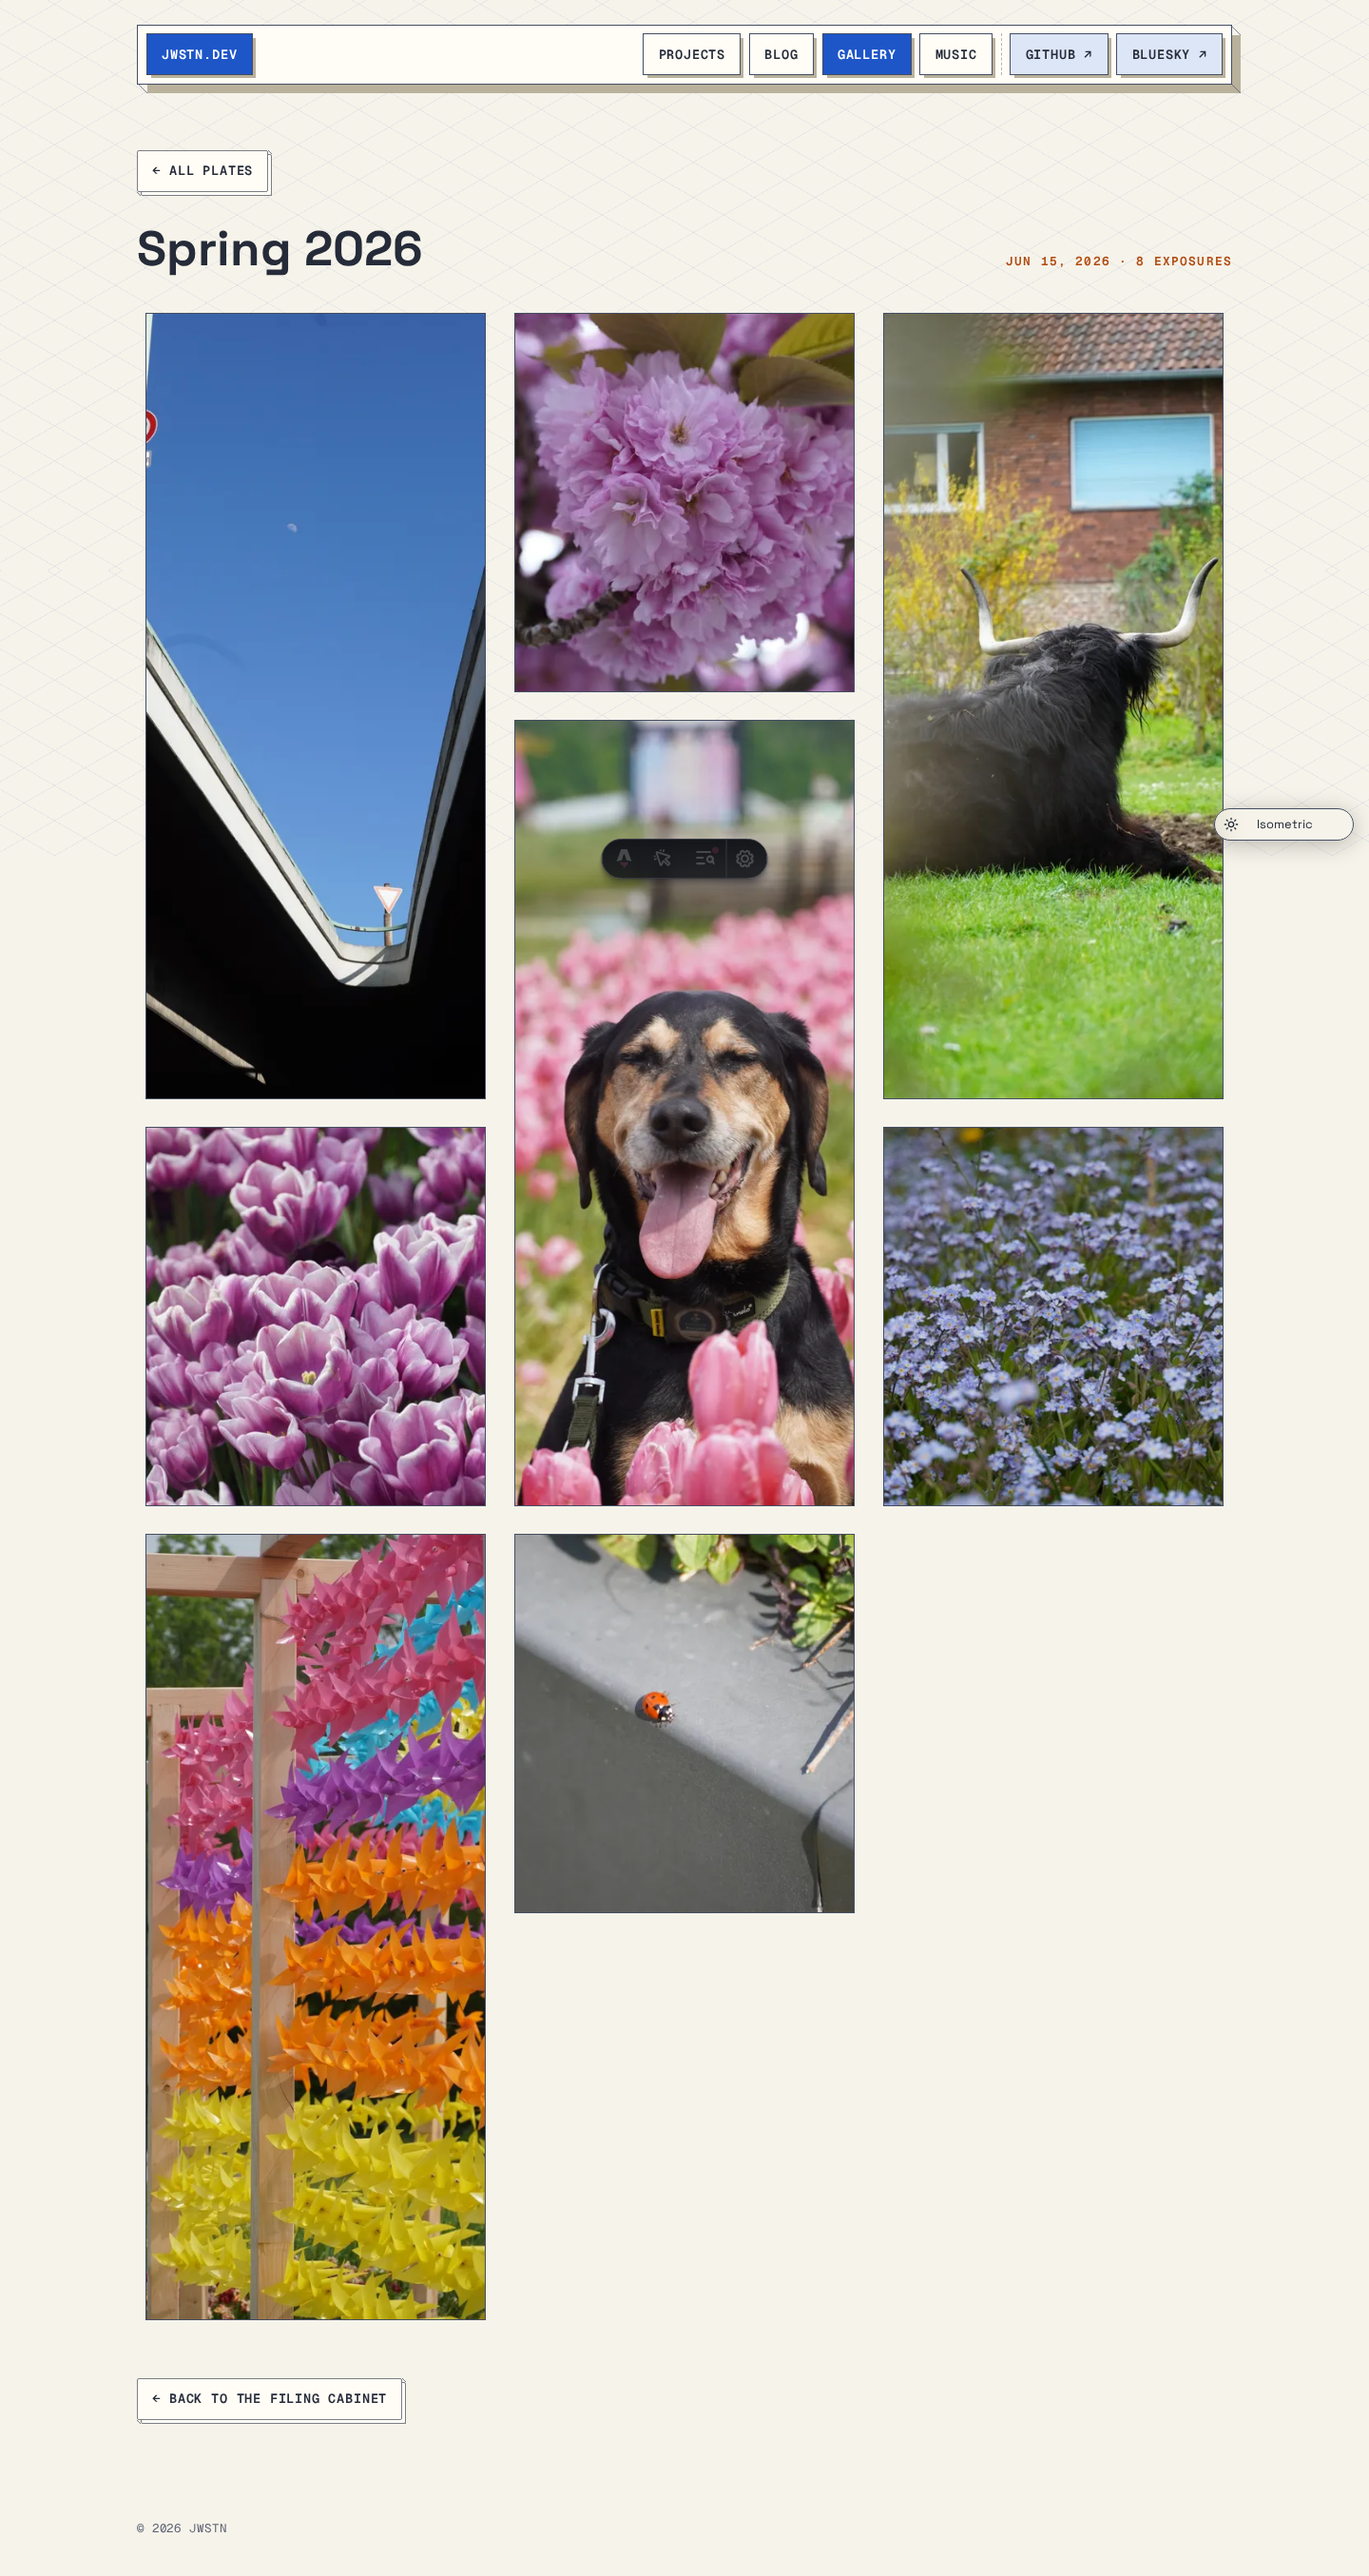
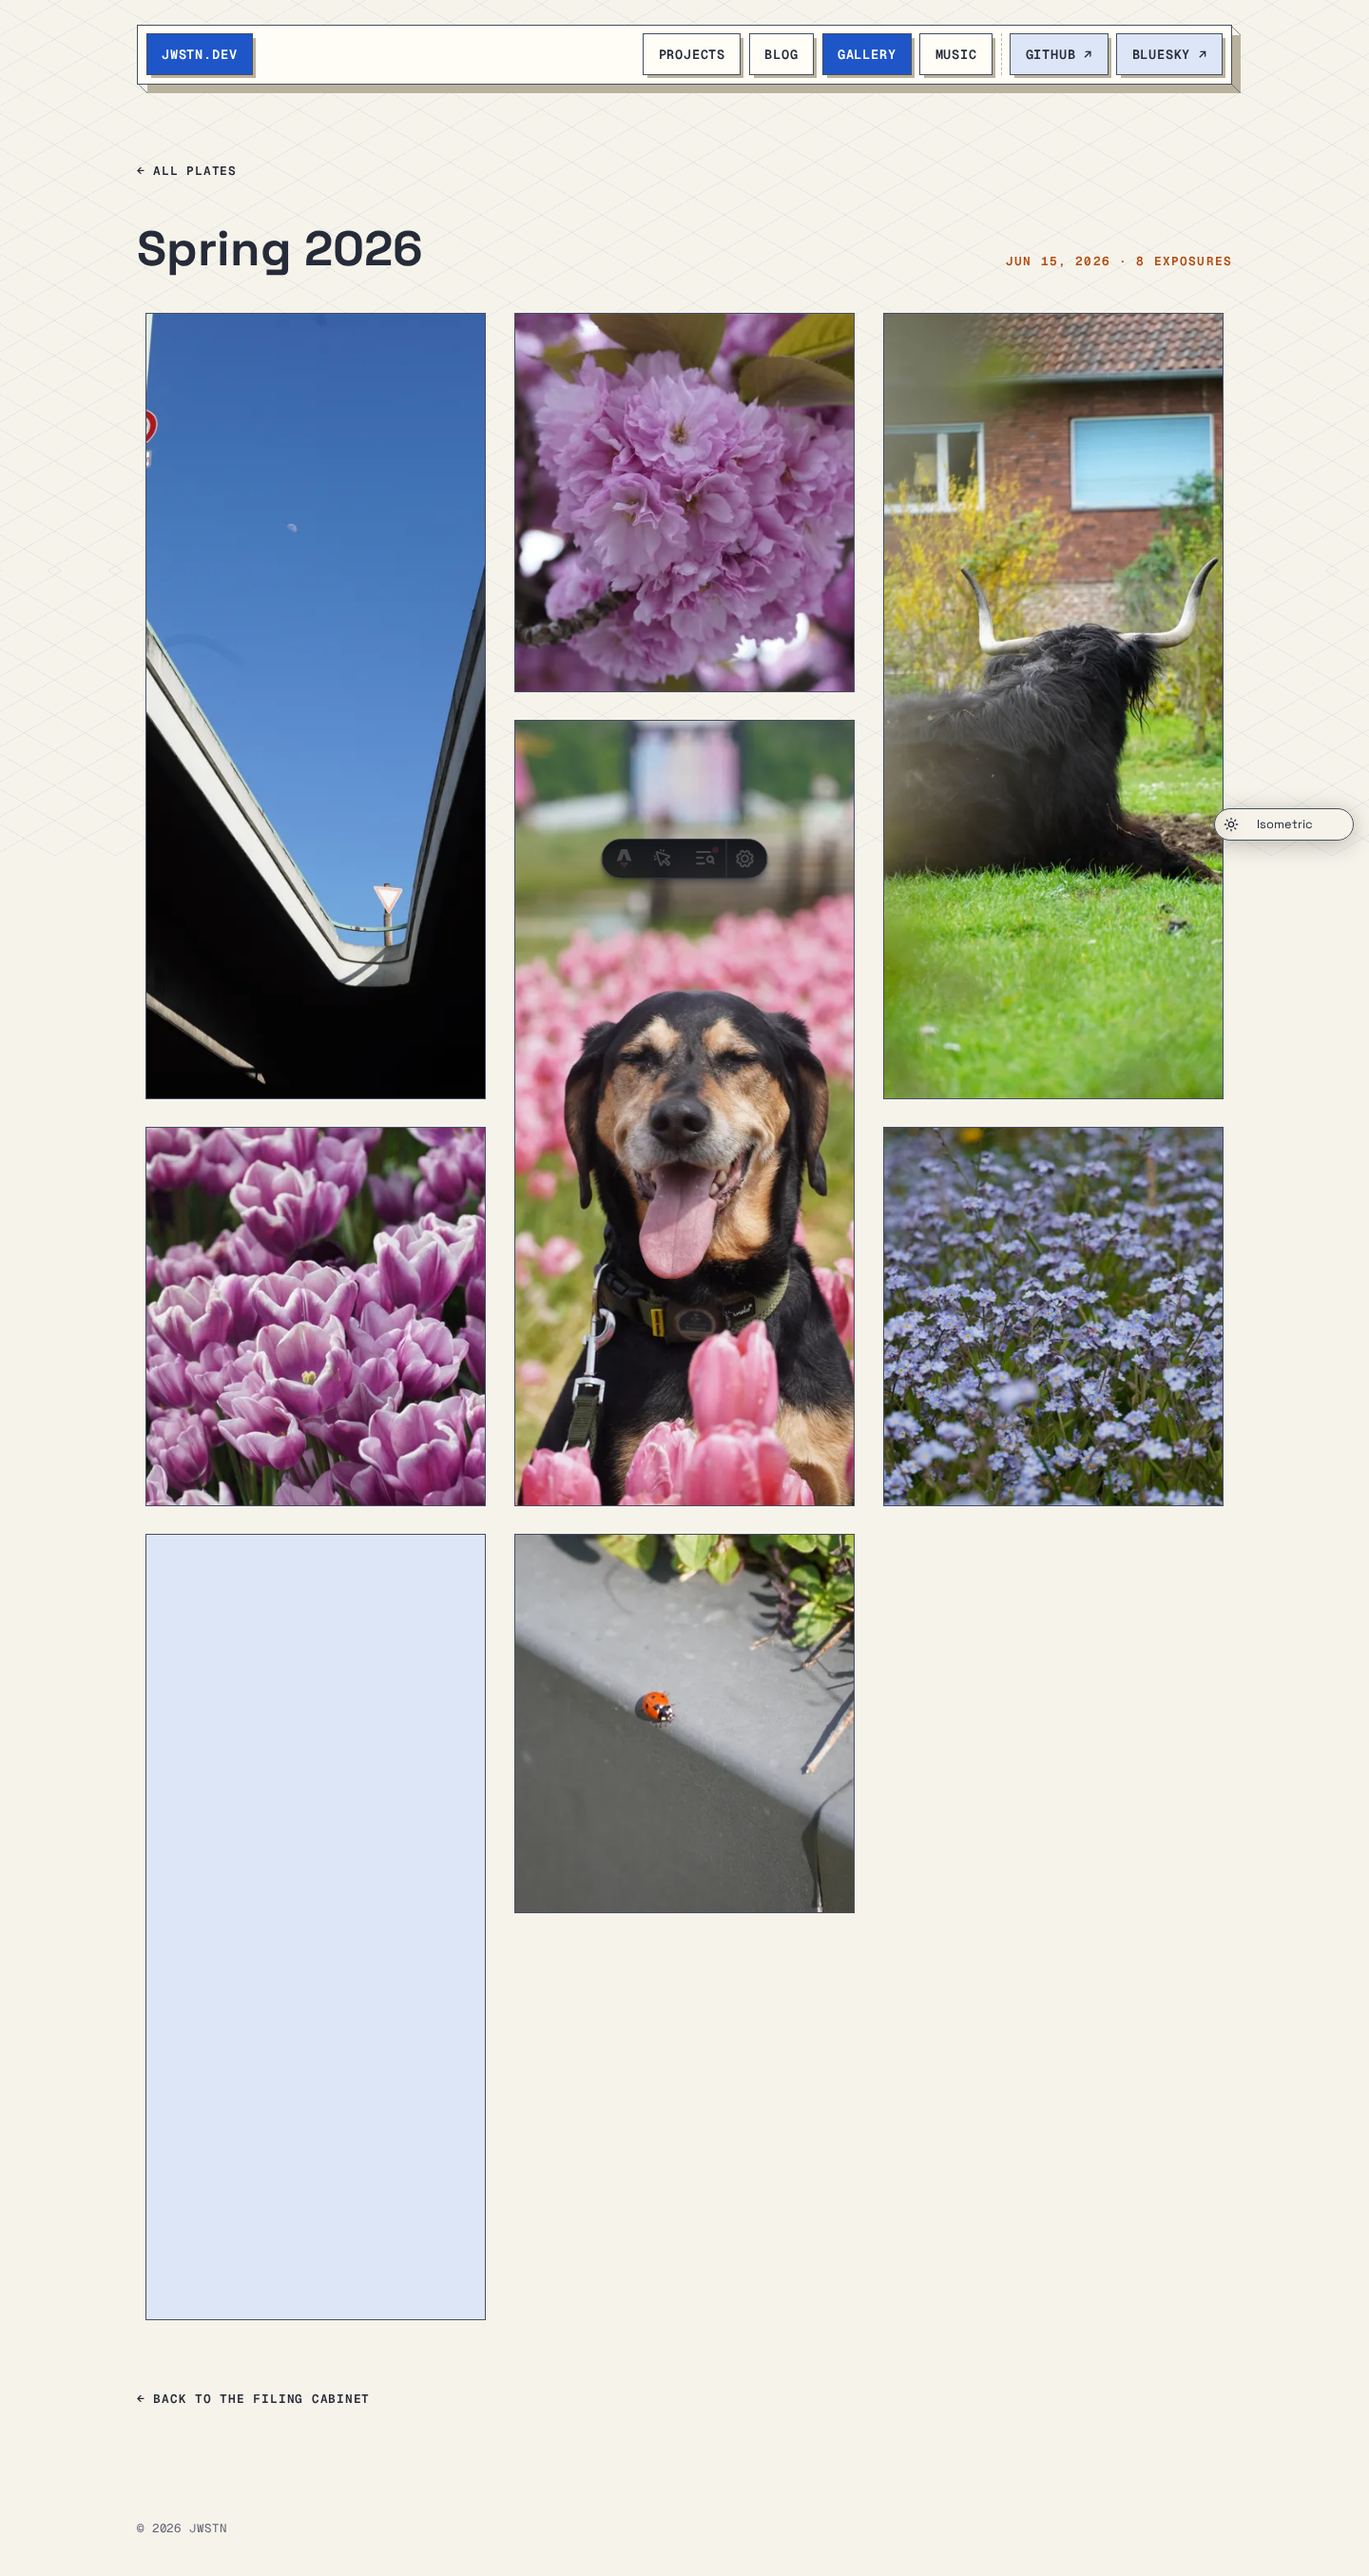
Detail pages: plain back links; technology tags as iso badges (#39)

Changed region(s): [[0.0938, 0.5891, 0.375, 0.8992]]

diff --git a/src/themes/isometric/theme.css b/src/themes/isometric/theme.css
@@ -801,8 +801,26 @@ html.theme-isometric .iso-btn:focus-visible .iso-btn-face {
 html.theme-isometric .iso-backrow {
   margin: 0;
 }
-html.theme-isometric .iso-backrow .iso-btn {
+html.theme-isometric .iso-backrow {
   margin-top: 1.4rem;
+}
+html.theme-isometric .iso-backlink {
+  display: inline-flex;
+  align-items: center;
+  min-height: 44px;
+  font-family: var(--font-mono);
+  font-size: 0.8rem;
+  font-weight: 600;
+  letter-spacing: 0.06em;
+  text-transform: uppercase;
+  color: var(--foreground);
+  text-decoration: none;
+}
+html.theme-isometric .iso-backlink:hover {
+  color: var(--primary);
+  text-decoration: underline;
+  text-decoration-thickness: 2px;
+  text-underline-offset: 4px;
 }
 
 html.theme-isometric .iso-lede {
@@ -850,7 +868,7 @@ html.theme-isometric .iso-block-date {
   color: var(--muted-foreground);
 }
 
-/* stamps — drawing tags with mono brackets */
+/* stamps — technology tags as iso badges (small face + 2px depth) */
 html.theme-isometric .iso-stamps {
   display: flex;
   flex-wrap: wrap;
@@ -859,25 +877,62 @@ html.theme-isometric .iso-stamps {
   list-style: none;
 }
 html.theme-isometric .iso-stamp {
+  --iso-d: 2px;
+  --iso-line: color-mix(in oklab, var(--foreground) 55%, var(--background));
+
+  position: relative;
   display: inline-flex;
   align-items: center;
+  height: 1.4rem;
+  padding-inline: 0.5rem;
+  margin: 0 2px 2px 0;
   background: var(--secondary);
   color: var(--secondary-foreground);
-  border: 1px solid var(--iso-edge);
-  padding: 0.16rem 0.5rem;
+  border: 1px solid var(--iso-line);
+  box-shadow: 2px 2px 0 -1px var(--iso-side);
   font-family: var(--font-mono);
-  font-size: 0.75rem;
+  font-size: 0.7rem;
   font-weight: 600;
   letter-spacing: 0.05em;
   text-transform: uppercase;
 }
 html.theme-isometric .iso-stamp::before {
-  content: "[ ";
-  color: var(--muted-foreground);
-}
-html.theme-isometric .iso-stamp::after {
-  content: " ]";
-  color: var(--muted-foreground);
+  content: "";
+  position: absolute;
+  top: 0;
+  left: 0;
+  right: calc(var(--iso-d) * -1);
+  bottom: calc(var(--iso-d) * -1);
+  pointer-events: none;
+  opacity: 0.55;
+  background-image:
+    linear-gradient(
+      to top right,
+      transparent calc(50% - 0.5px),
+      var(--iso-line) calc(50% - 0.5px),
+      var(--iso-line) calc(50% + 0.5px),
+      transparent calc(50% + 0.5px)
+    ),
+    linear-gradient(
+      to top right,
+      transparent calc(50% - 0.5px),
+      var(--iso-line) calc(50% - 0.5px),
+      var(--iso-line) calc(50% + 0.5px),
+      transparent calc(50% + 0.5px)
+    ),
+    linear-gradient(
+      to top right,
+      transparent calc(50% - 0.5px),
+      var(--iso-line) calc(50% - 0.5px),
+      var(--iso-line) calc(50% + 0.5px),
+      transparent calc(50% + 0.5px)
+    );
+  background-position:
+    100% 0,
+    100% 100%,
+    0 100%;
+  background-size: 2px 2px;
+  background-repeat: no-repeat;
 }
 
 html.theme-isometric .iso-block-actions {
